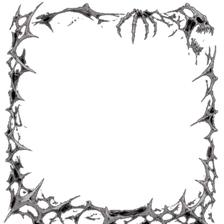
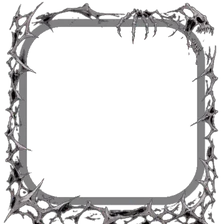
Bonestruck frame autofit

Changed region(s): [[0.0625, 0.0625, 0.9375, 0.9375]]

diff --git a/public/sw.js b/public/sw.js
@@ -1,4 +1,4 @@
-const VER='d51e8a07b3'
+const VER='e8c40b2a71'
 const SHELL=["/","/go.js","/style.css","/design.css","/perf.css","/bundles.css","/manifest.webmanifest","/logo-192.png","/mascot.webp","/fonts/schibsted.woff2","/fonts/onest.woff2","/fonts/onest-cyrillic.woff2","/fonts/parli-bold.woff2","/fonts/bricolage.woff2","/fonts/figtree.woff2","/js/accounts.js","/js/activity.js","/js/admin.js","/js/appupd.js","/js/auth.js","/js/banhammerfx.js","/js/bgm.js","/js/blocks.js","/js/botspage.js","/js/cakefx.js","/js/catmenu.js","/js/changelog.js","/js/chat.js","/js/chatx.js","/js/cmdopts.js","/js/codec.js","/js/connicons.js","/js/cropper.js","/js/devblock.js","/js/diag.js","/js/dialogs.js","/js/dialogs2.js","/js/emoji.js","/js/errscreens.js","/js/exp.js","/js/gamebar.js","/js/gifs.js","/js/giftreveal.js","/js/gmerge.js","/js/guipreview.js","/js/home.js","/js/imghist.js","/js/intro.js","/js/kandie.js","/js/labs.js","/js/lcard.js","/js/lcdesign.js","/js/legal.js","/js/licenses.js","/js/main.js","/js/md.js","/js/mergekey.js","/js/modai.js","/js/modcases.js","/js/nav.js","/js/net.js","/js/notify.js","/js/onboard.js","/js/overlay.js","/js/p2p/core.js","/js/p2p/frames.js","/js/p2p/hist.js","/js/p2p/index.js","/js/p2p/rtc.js","/js/p2p/sha.js","/js/p2p/store.js","/js/p2p/swarm.js","/js/p2p/verify.js","/js/pages.js","/js/panels.js","/js/pars.js","/js/perf.js","/js/prefs.js","/js/provider.js","/js/pushclient.js","/js/revamp.js","/js/schedule.js","/js/screenui.js","/js/settings.js","/js/shell.js","/js/slash.js","/js/slashui.js","/js/ssettings.js","/js/state.js","/js/status.js","/js/streakui.js","/js/studio.js","/js/svg.js","/js/testupd.js","/js/tools.js","/js/tour.js","/js/tweaks.js","/js/update.js","/js/uploader.js","/js/util.js","/js/voice.js","/js/voiceclip.js","/js/webauthn.js","/js/whatsnew.js","/js/xlabs.js"]
 const CACHE='parley-shell-'+VER
 const RT='parley-rt-'+VER
